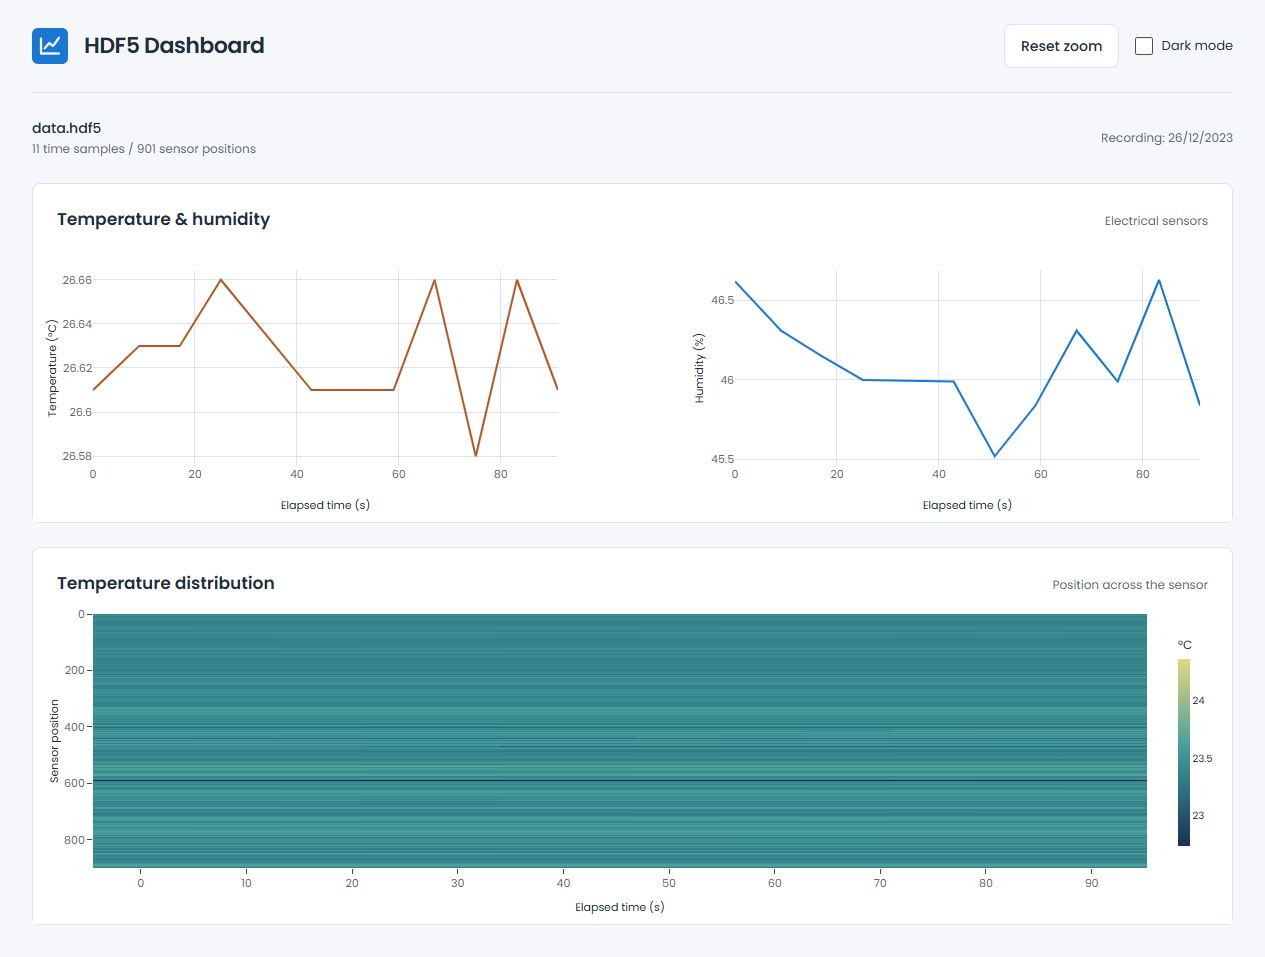
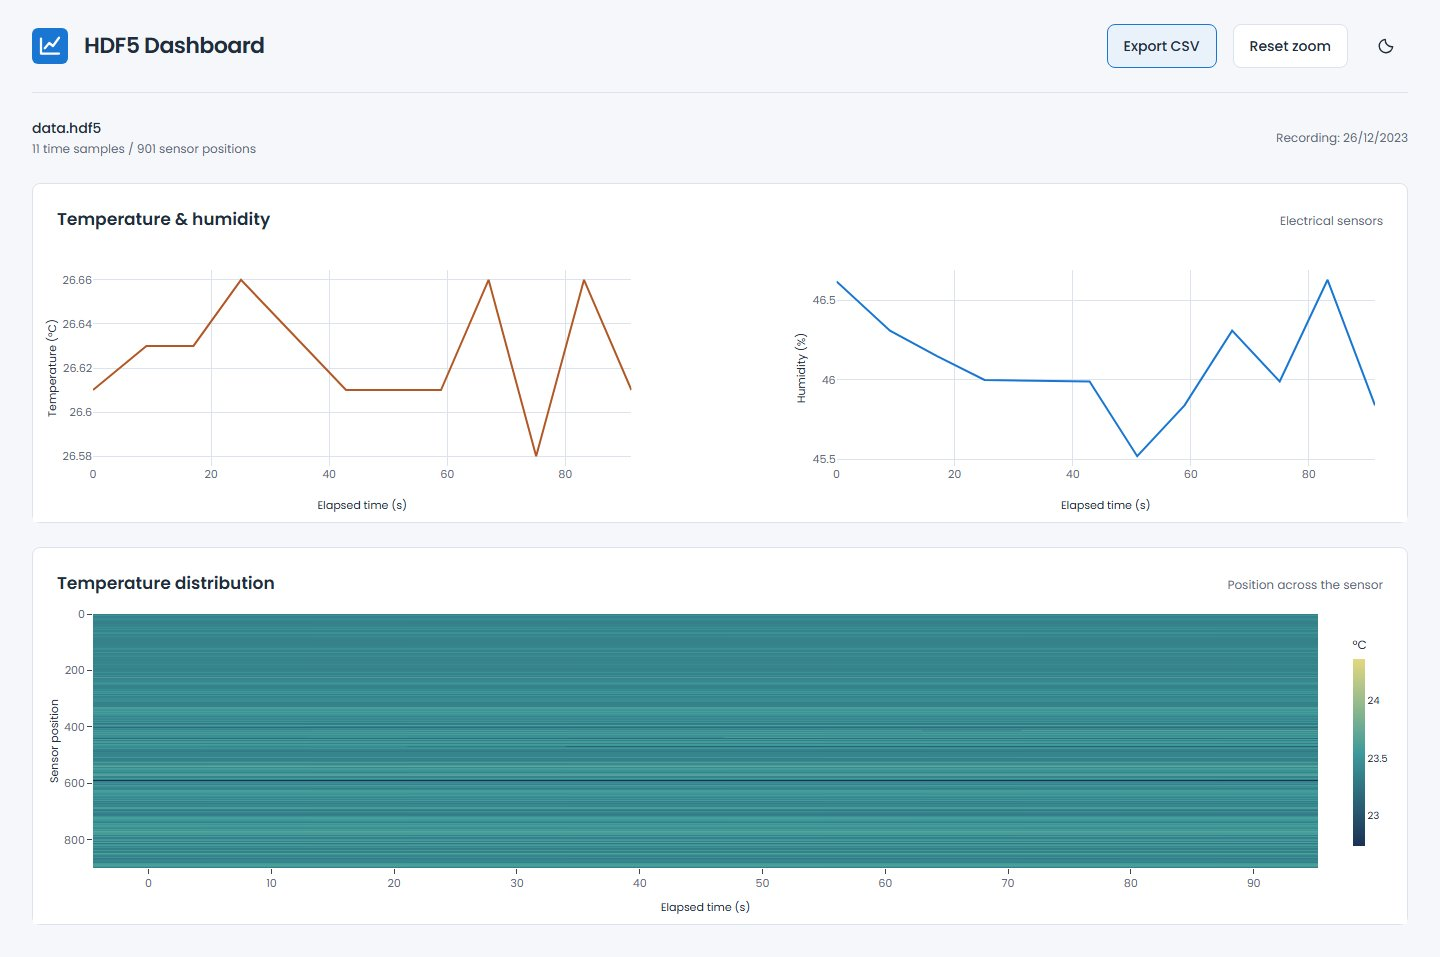
Export sensor recordings and support portable API setup

diff --git a/frontend/index.html b/frontend/index.html
@@ -2,8 +2,8 @@
 <html lang="en"><head><meta charset="UTF-8"><meta name="viewport" content="width=device-width,initial-scale=1"><title>HDF5 Dashboard</title>
 <link rel="icon" type="image/svg+xml" href="icon.svg"><link rel="preconnect" href="https://fonts.googleapis.com"><link href="https://fonts.googleapis.com/css2?family=Poppins:wght@400;500;600&display=swap" rel="stylesheet"><link rel="stylesheet" href="style.css">
 <script>try{document.documentElement.dataset.mode=localStorage.getItem('hdf5-theme')||(matchMedia('(prefers-color-scheme:dark)').matches?'dark':'light')}catch{}</script>
-</head><body><div class="app-container"><header><div class="header-content"><div class="brand"><img src="icon.svg" width="36" height="36" alt=""><h1>HDF5 Dashboard</h1></div><div class="controls"><button id="zoomReset" disabled>Reset zoom</button><label class="theme-switch" for="checkbox"><input type="checkbox" id="checkbox" aria-label="Switch to dark mode"><span class="theme-icon" aria-hidden="true"><svg xmlns="http://www.w3.org/2000/svg" width="18" height="18" viewBox="0 0 24 24" fill="none" stroke="currentColor" stroke-width="1.8" stroke-linecap="round" stroke-linejoin="round" aria-hidden="true"><path d="M20.9 13A9 9 0 0 1 11 3.1 9 9 0 1 0 20.9 13Z"/></svg></span></label></div></div></header>
-<main><section class="dataset-bar" aria-label="Dataset"><div><strong>data.hdf5</strong><p id="dataset-summary">Reading sensor dataâ€¦</p></div><span id="status" role="status" aria-live="polite">Loading</span></section>
+</head><body><div class="app-container"><header><div class="header-content"><div class="brand"><img src="icon.svg" width="36" height="36" alt=""><h1>HDF5 Dashboard</h1></div><div class="controls"><button id="exportCsv" disabled>Export CSV</button><button id="zoomReset" disabled>Reset zoom</button><label class="theme-switch" for="checkbox"><input type="checkbox" id="checkbox" aria-label="Switch to dark mode"><span class="theme-icon" aria-hidden="true"><svg xmlns="http://www.w3.org/2000/svg" width="18" height="18" viewBox="0 0 24 24" fill="none" stroke="currentColor" stroke-width="1.8" stroke-linecap="round" stroke-linejoin="round" aria-hidden="true"><path d="M20.9 13A9 9 0 0 1 11 3.1 9 9 0 1 0 20.9 13Z"/></svg></span></label></div></div></header>
+<main><section class="dataset-bar" aria-label="Dataset"><div><strong>data.hdf5</strong><p id="dataset-summary">Reading sensor data…</p></div><span id="status" role="status" aria-live="polite">Loading</span></section>
 <section class="chart-wrapper" aria-labelledby="electrical-title"><div class="chart-heading"><h2 id="electrical-title">Temperature &amp; humidity</h2><p>Electrical sensors</p></div><div id="temp-humidity-chart" class="chart-container" role="img" aria-label="Temperature and humidity over the recording"></div></section>
 <section class="chart-wrapper" aria-labelledby="heatmap-title"><div class="chart-heading"><h2 id="heatmap-title">Temperature distribution</h2><p>Position across the sensor</p></div><div id="heatmap-chart" class="chart-container heatmap" role="img" aria-label="Temperature by sensor position and elapsed time"></div></section>
 <noscript>This dashboard requires JavaScript to display the HDF5 charts.</noscript></main></div><script type="module" src="main.js"></script></body></html>

diff --git a/frontend/main.js b/frontend/main.js
@@ -1,10 +1,17 @@
 import Plotly from 'plotly.js-dist';
 import {createTempHumidityChart,createHeatmap} from './chart.js';
-import {prepareData} from './data.js';
+import {prepareData,sensorCsv} from './data.js';
 let current;
 const status=document.getElementById('status');
 const summary=document.getElementById('dataset-summary');
 const reset=document.getElementById('zoomReset');
+const exportButton=document.getElementById('exportCsv');
+exportButton.addEventListener('click',()=>{
+ if(!current)return;
+ const url=URL.createObjectURL(new Blob([sensorCsv(current)],{type:'text/csv;charset=utf-8'}));
+ const link=document.createElement('a');link.href=url;link.download='sensor-recording.csv';link.click();
+ setTimeout(()=>URL.revokeObjectURL(url),1000);
+});
 const theme=document.getElementById('checkbox');
 theme.checked=document.documentElement.dataset.mode==='dark';
 const themeIcon=document.querySelector('.theme-icon');
@@ -34,7 +41,7 @@ async function main(){
   const response=await fetch(import.meta.env.VITE_API_URL || '/api/');
   if(!response.ok)throw new Error('Sensor data is unavailable.');
   let data=await response.json();if(typeof data==='string')data=JSON.parse(data);
-  current=prepareData(data);await render();reset.disabled=false;
+  current=prepareData(data);await render();reset.disabled=false;exportButton.disabled=false;
   summary.textContent=`${current.timestamps.length} time samples / ${current.distancePoints.length} sensor positions`;
   status.textContent=`Recording: ${new Date(current.recorded[0]*1000).toLocaleDateString('en-GB',{timeZone:'UTC'})}`;
  }catch(error){status.textContent='Unable to load data';summary.textContent='Start the Flask API, then reload this page.';console.error(error);}

diff --git a/tests/data.test.js b/tests/data.test.js
@@ -1,6 +1,6 @@
 import test from 'node:test';
 import assert from 'node:assert/strict';
-import {prepareData} from '../frontend/data.js';
+import {prepareData,sensorCsv} from '../frontend/data.js';
 test('preserves every position and uses recorded elapsed seconds',()=>{
  const data=prepareData({electrical_sensors:[[[24,0],[25,0]],[[40,0],[42,0]]],results:[[[1,2,3],[4,5,6]]],timestamps:[[100,112]]});
  assert.deepEqual(data.values,[[1,4],[2,5],[3,6]]);assert.deepEqual(data.timestamps,[0,12]);assert.deepEqual(data.temperature,[24,25]);assert.deepEqual(data.humidity,[40,42]);
@@ -8,4 +8,12 @@ test('preserves every position and uses recorded elapsed seconds',()=>{
 test('rejects misaligned recordings and incomplete grids',()=>{
  assert.throws(()=>prepareData({}),/matching/);
  assert.throws(()=>prepareData({electrical_sensors:[[[24],[25]],[[40],[42]]],results:[[[1,2],[3]]],timestamps:[[100,112]]}),/inconsistent/);
+});
+
+test('CSV preserves all sensor positions and recorded timestamps',()=>{
+ const data=prepareData({electrical_sensors:[[[24],[25]],[[40],[42]]],results:[[[1,2,3],[4,5,6]]],timestamps:[[100,112]]});
+ const lines=sensorCsv(data).split('\r\n');
+ assert.equal(lines.length,3);
+ assert.equal(lines[0], '"Recorded (UTC)","Elapsed (s)","Temperature","Humidity","Position 0","Position 1","Position 2"');
+ assert.equal(lines[2], '"1970-01-01T00:01:52.000Z","12","25","42","4","5","6"');
 });

diff --git a/frontend/data.js b/frontend/data.js
@@ -11,3 +11,15 @@ export function prepareData(data) {
     const values = Array.from({length:positions}, (_, position) => rows.map(row => row[position]));
     return {timestamps,temperature,humidity,values,distancePoints:Array.from({length:positions},(_,i)=>i),recorded};
 }
+
+// One row per recorded sample; sensor columns retain their original positions.
+export function sensorCsv(data) {
+  const cell = value => '"' + String(value).replaceAll('"', '""') + '"';
+  return [
+    ['Recorded (UTC)', 'Elapsed (s)', 'Temperature', 'Humidity', ...data.distancePoints.map(p => `Position ${p}`)],
+    ...data.timestamps.map((elapsed, i) => [
+      new Date(data.recorded[i] * 1000).toISOString(), elapsed,
+      data.temperature[i], data.humidity[i], ...data.values.map(row => row[i]),
+    ]),
+  ].map(row => row.map(cell).join(',')).join('\r\n');
+}

diff --git a/README.md b/README.md
@@ -1,14 +1,12 @@
 # HDF5 Dashboard
 
-Temperature and humidity charts with a full-length sensor heatmap. Flask, h5py, NumPy, Plotly and Vite.
+Inspect temperature and humidity recordings alongside a heatmap of every sensor position. Zoom into a recording and export the full dataset as CSV.
 
-![Sensor dashboard](docs/desktop.jpg)
+![HDF5 Dashboard workspace](docs/desktop.jpg)
 
-## Run
+## Setup
 
-Node.js 22.12+ and Python 3.13.
-
-Windows:
+Node.js 22.12+ and Python 3.13. Windows, macOS, or Linux.
 
 ```sh
 npm ci
@@ -16,15 +14,6 @@ npm run setup:api
 npm start
 ```
 
-Open http://localhost:5173. Flask runs on port 5008.
+Open http://localhost:5173. Includes an HDF5 recording with 11 time samples and 901 sensor positions. Flask runs on port 5008.
 
-On macOS/Linux, run `npm ci`, create and activate a Python virtual environment, then install `api/requirements.txt`. Start `python -m flask --app api.main run --port 5008` and `npm run start:frontend` in separate terminals.
-
-## Check
-
-```sh
-npm test
-npm run build
-```
-
-The bundled `api/data.hdf5` contains 11 time samples and 901 sensor positions. `VITE_API_URL` configures a separate API host.
+Flask · h5py · NumPy · Plotly · Vite. [Development notes](docs/development.md).

diff --git a/docs/development.md b/docs/development.md
@@ -1,0 +1,20 @@
+# HDF5 Dashboard
+
+Temperature and humidity charts with a full-length sensor heatmap. Flask, h5py, NumPy, Plotly and Vite.
+
+## Run
+
+Node.js 22.12+ and Python 3.13.
+
+Run `npm ci`, `npm run setup:api`, then `npm start` on Windows, macOS, or Linux. Set `PYTHON` to select a custom Python executable during setup.
+
+Open http://localhost:5173. Flask runs on port 5008.
+
+## Check
+
+```sh
+npm test
+npm run build
+```
+
+The bundled `api/data.hdf5` contains 11 time samples and 901 sensor positions. `VITE_API_URL` configures a separate API host.
